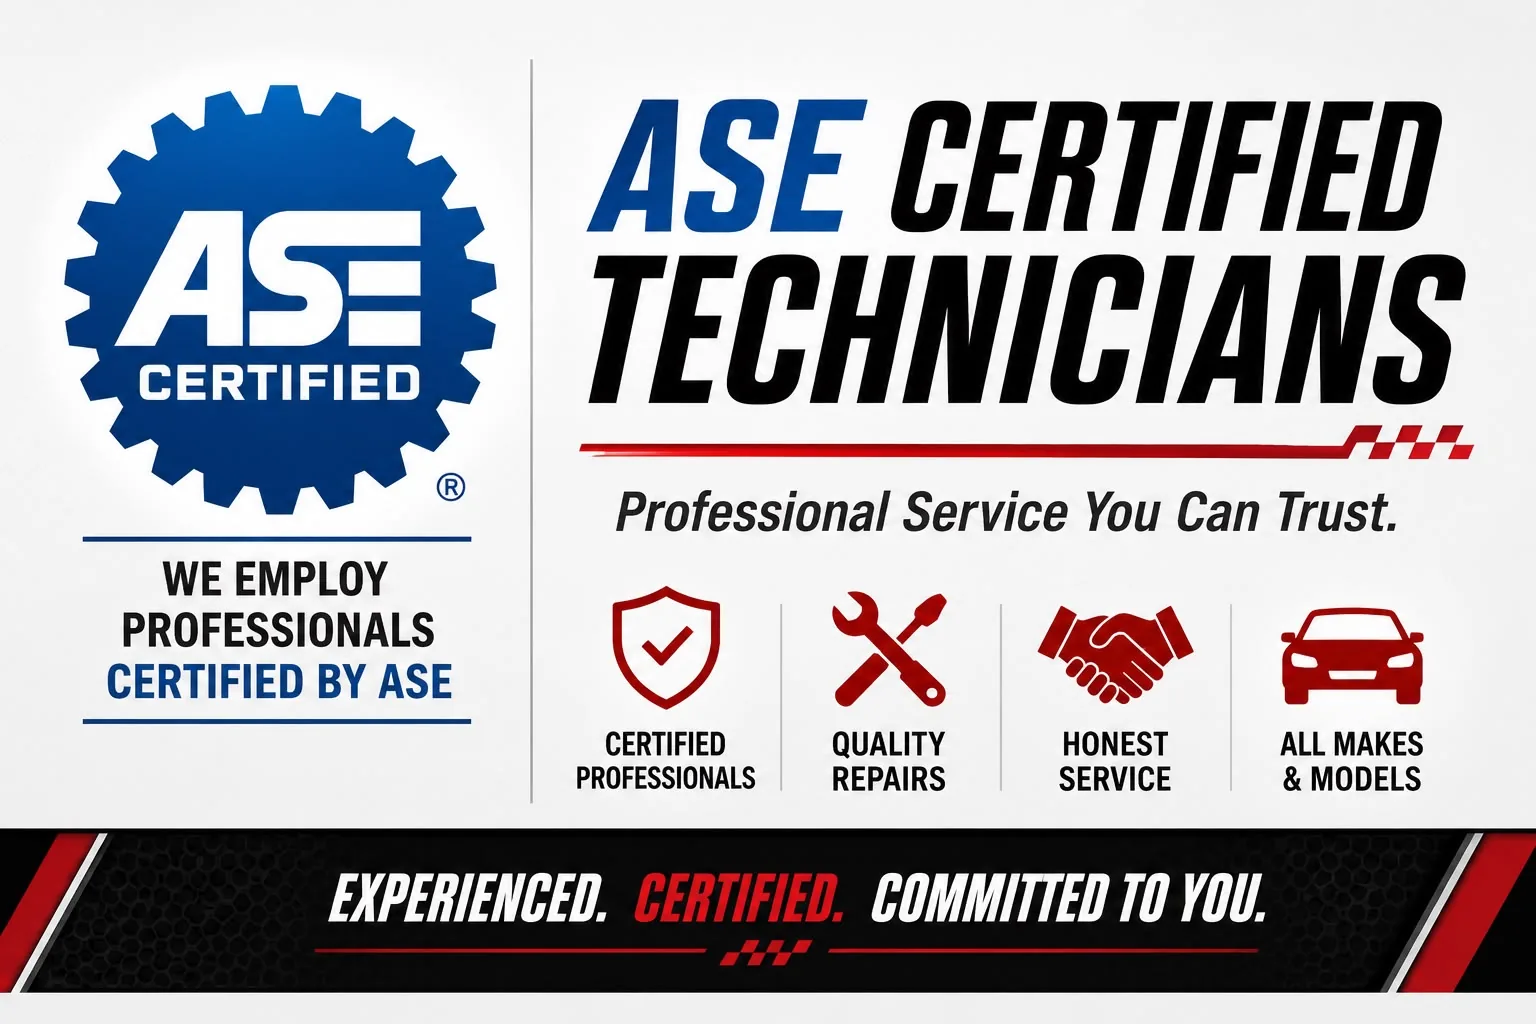
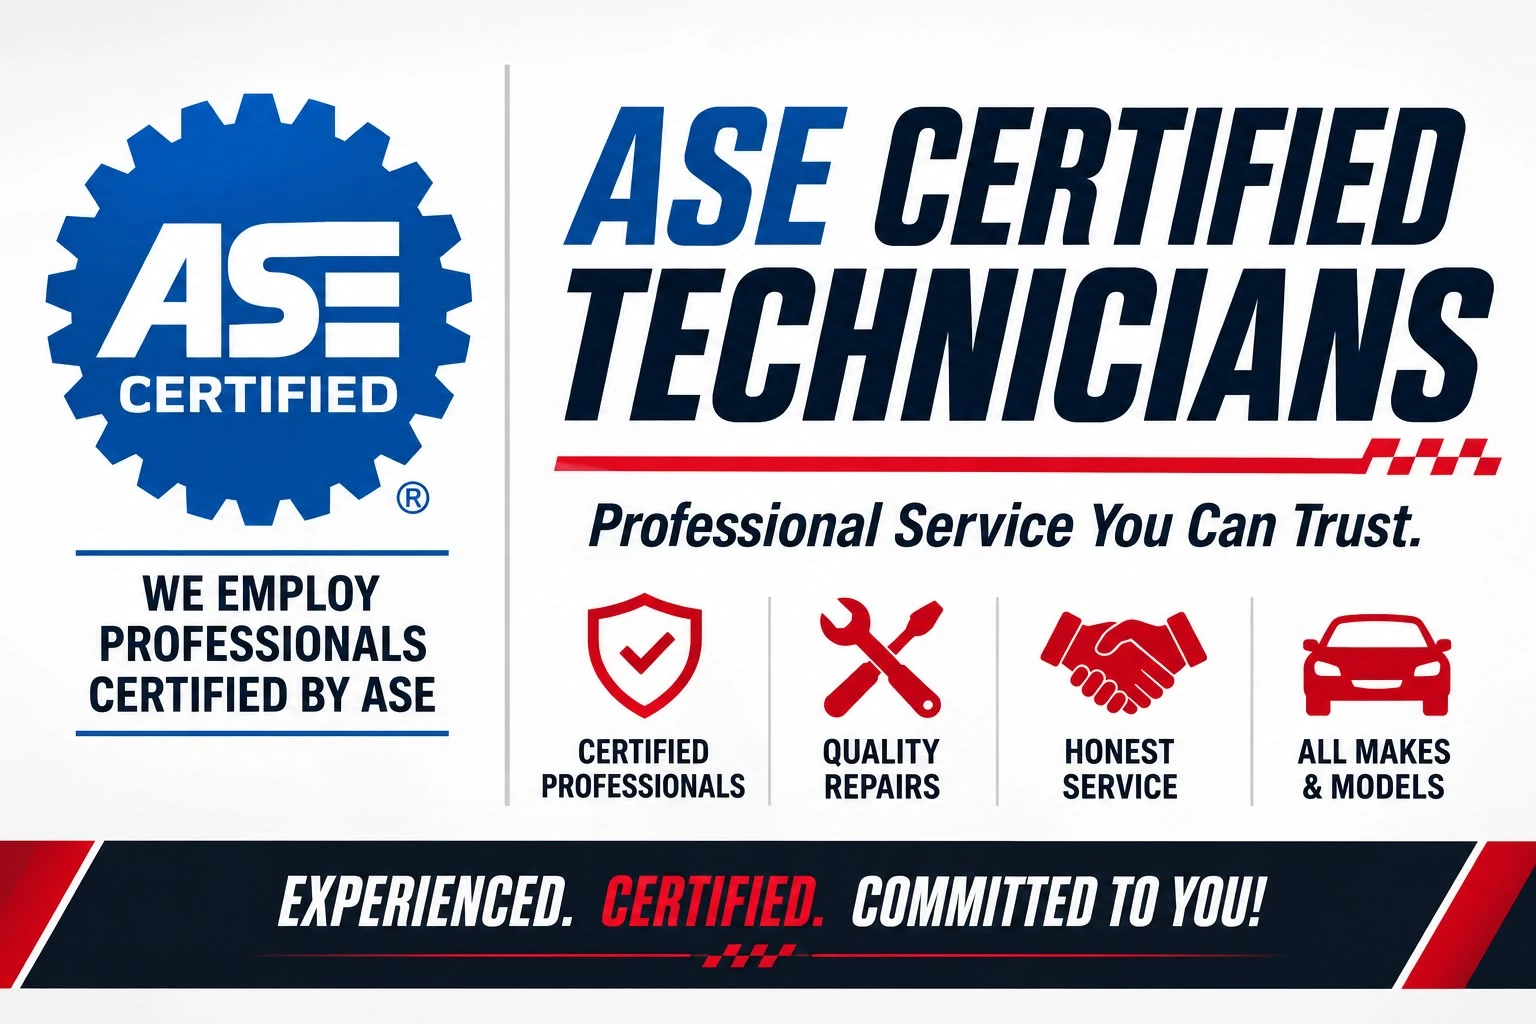
Rework hero CTA hierarchy, restyle pricing cards, update brand graphics
- Hero: Call Now is now a single full-width dominant button; Get Directions
  and Review on Google moved to smaller secondary links below it, per the
  reference mockup's single-CTA emphasis (previously three equal-weight
  buttons).
- Pricing section: restyled to match the new reference -- shield badge icon
  (reusing the real icon-512.png mark) atop each colored tier band, divider
  line, oil-drop icon beneath the price, a short description line per tier,
  and a bold "Walk-Ins Welcome - Call (phone)" bar replacing the two
  side-by-side buttons (View Full Menu kept as a smaller secondary link).
  Still real HTML, not a flattened image, consistent with the rest of the
  site's approach to "visual reference" mockups.
- Replaced best-oil-brands.webp and ase-certified-technicians.webp with the
  new supplied graphics. The new oil-brands graphic already includes Shell
  Rotella T6 natively, so removed the separate "Also available: Shell
  Rotella T6" badge added a few weeks ago (now redundant) and its
  now-unused image file, and updated alt text to list all 5 brands.

diff --git a/src/components/Pricing.tsx b/src/components/Pricing.tsx
@@ -1,16 +1,23 @@
+import Image from "next/image";
 import Link from "next/link";
 import { BUSINESS, OIL_CHANGE_PRICING } from "@/lib/constants";
+
+function OilDropIcon() {
+  return (
+    <svg className="h-6 w-6 text-slate-300" fill="currentColor" viewBox="0 0 24 24" aria-hidden="true">
+      <path d="M12 2C9 7 5 11.5 5 15a7 7 0 0014 0c0-3.5-4-8-7-13z" />
+    </svg>
+  );
+}
 
 export function Pricing() {
   return (
     <section id="pricing" className="bg-slate-50 py-20 sm:py-24">
       <div className="mx-auto max-w-7xl px-4 sm:px-6 lg:px-8">
         <div className="mx-auto max-w-2xl text-center">
-          <p className="text-sm font-bold uppercase tracking-widest text-brand-red">
-            Oil Change Pricing
-          </p>
-          <h2 className="mt-2 text-3xl font-extrabold tracking-tight text-brand-navy sm:text-4xl">
-            Straightforward Pricing
+          <h2 className="text-4xl font-black tracking-tight sm:text-5xl">
+            <span className="text-brand-navy">Oil Change </span>
+            <span className="text-brand-red">Pricing</span>
           </h2>
           <p className="mt-4 text-lg text-slate-600">
             Up to 5 quarts &middot; Premium oil filter included
@@ -23,40 +30,54 @@ export function Pricing() {
               key={tier.id}
               className="overflow-hidden rounded-2xl border border-slate-200 bg-white shadow-sm"
             >
-              <div className={`${tier.bandClass} px-5 py-3 text-center`}>
+              <div className={`${tier.bandClass} flex flex-col items-center gap-2 px-5 py-4 text-center`}>
+                <Image
+                  src="/icon-512.png"
+                  alt=""
+                  width={40}
+                  height={40}
+                  className="h-10 w-10 rounded-md"
+                  aria-hidden="true"
+                />
                 <p className="text-lg font-black uppercase tracking-wide text-white">
                   {tier.tier}
                 </p>
               </div>
               <div className="p-6 text-center">
                 <p className="text-sm font-semibold text-slate-700">{tier.label}</p>
+                <div className="mx-auto mt-4 h-px w-16 bg-slate-200" aria-hidden="true" />
                 <p className="mt-4 text-xs font-bold uppercase tracking-widest text-slate-400">
                   Starting At
                 </p>
-                <p className="mt-1 text-4xl font-black text-brand-navy">${tier.price}</p>
+                <p className="mt-1 text-4xl font-black text-brand-red">${tier.price}</p>
+                <div className="mt-2 flex justify-center">
+                  <OilDropIcon />
+                </div>
+                <p className="mt-3 text-xs leading-relaxed text-slate-500">
+                  {tier.description}
+                </p>
               </div>
             </div>
           ))}
         </div>
 
-        <p className="mt-8 text-center text-sm text-slate-500">
-          Prices are for up to 5 quarts. Taxes and shop fee extra. Special filters and
-          additional oil may cost extra.
+        <p className="mt-8 rounded-xl bg-slate-100 py-3 text-center text-sm text-slate-500">
+          Taxes and shop fee extra. Special filters or additional oil may cost extra.
         </p>
 
-        <div className="mt-6 flex flex-col items-center justify-center gap-3 sm:flex-row">
+        <div className="mt-6 flex flex-col items-center gap-3">
+          <a
+            href={BUSINESS.phoneHref}
+            className="flex w-full items-center justify-center gap-2 rounded-xl bg-brand-red px-8 py-4 text-center text-lg font-extrabold uppercase tracking-wide text-white shadow-lg transition hover:bg-brand-red-dark sm:w-auto"
+          >
+            Walk-Ins Welcome &nbsp;&bull;&nbsp; Call {BUSINESS.phone}
+          </a>
           <Link
             href="/#oil-change"
-            className="inline-flex items-center justify-center rounded-xl border-2 border-brand-navy px-6 py-3 text-base font-bold text-brand-navy transition hover:bg-brand-navy hover:text-white"
+            className="text-sm font-bold text-brand-navy underline decoration-brand-red underline-offset-4 transition hover:text-brand-red"
           >
             View Full Menu
           </Link>
-          <a
-            href={BUSINESS.phoneHref}
-            className="inline-flex items-center justify-center rounded-xl bg-brand-red px-6 py-3 text-base font-bold text-white transition hover:bg-brand-red-dark"
-          >
-            Call Now
-          </a>
         </div>
       </div>
     </section>

diff --git a/src/components/Hero.tsx b/src/components/Hero.tsx
@@ -28,39 +28,42 @@ export function Hero() {
             {BUSINESS.heroTrust}
           </p>
 
-          <div className="mt-8 flex flex-col gap-3 sm:flex-row sm:flex-wrap">
+          <div className="mt-8">
             <a
               href={BUSINESS.phoneHref}
-              className="inline-flex items-center justify-center gap-2 rounded-xl bg-brand-red px-8 py-4 text-lg font-bold text-white shadow-lg transition hover:bg-brand-red-dark"
+              className="flex w-full items-center justify-center gap-3 rounded-xl bg-brand-red px-8 py-5 text-xl font-extrabold text-white shadow-lg transition hover:bg-brand-red-dark sm:w-auto sm:text-2xl"
             >
-              <svg className="h-5 w-5" fill="none" viewBox="0 0 24 24" stroke="currentColor" strokeWidth={2}>
+              <svg className="h-6 w-6" fill="none" viewBox="0 0 24 24" stroke="currentColor" strokeWidth={2}>
                 <path strokeLinecap="round" strokeLinejoin="round" d="M3 5a2 2 0 012-2h3.28a1 1 0 01.948.684l1.498 4.493a1 1 0 01-.502 1.21l-2.257 1.13a11.042 11.042 0 005.516 5.516l1.13-2.257a1 1 0 011.21-.502l4.493 1.498a1 1 0 01.684.949V19a2 2 0 01-2 2h-1C9.716 21 3 14.284 3 6V5z" />
               </svg>
-              Call {BUSINESS.phone}
+              Call Now &nbsp;{BUSINESS.phone}
             </a>
-            <a
-              href={BUSINESS.mapsUrl}
-              target="_blank"
-              rel="noopener noreferrer"
-              className="inline-flex items-center justify-center gap-2 rounded-xl border-2 border-white/30 bg-white/10 px-8 py-4 text-lg font-bold text-white backdrop-blur-sm transition hover:bg-white/20"
-            >
-              <svg className="h-5 w-5" fill="none" viewBox="0 0 24 24" stroke="currentColor" strokeWidth={2}>
-                <path strokeLinecap="round" strokeLinejoin="round" d="M17.657 16.657L13.414 20.9a1.998 1.998 0 01-2.827 0l-4.244-4.243a8 8 0 1111.314 0z" />
-                <path strokeLinecap="round" strokeLinejoin="round" d="M15 11a3 3 0 11-6 0 3 3 0 016 0z" />
-              </svg>
-              Get Directions
-            </a>
-            <a
-              href={BUSINESS.googleReviewUrl}
-              target="_blank"
-              rel="noopener noreferrer"
-              className="inline-flex items-center justify-center gap-2 rounded-xl border-2 border-white/30 bg-white/10 px-8 py-4 text-lg font-bold text-white backdrop-blur-sm transition hover:bg-white/20"
-            >
-              <svg className="h-5 w-5" fill="currentColor" viewBox="0 0 24 24">
-                <path d="M12 17.27L18.18 21l-1.64-7.03L22 9.24l-7.19-.61L12 2 9.19 8.63 2 9.24l5.46 4.73L5.82 21z" />
-              </svg>
-              Review on Google
-            </a>
+
+            <div className="mt-3 flex flex-col gap-2 sm:flex-row sm:flex-wrap">
+              <a
+                href={BUSINESS.mapsUrl}
+                target="_blank"
+                rel="noopener noreferrer"
+                className="inline-flex items-center justify-center gap-2 rounded-lg border border-white/25 px-4 py-2 text-sm font-semibold text-white/90 transition hover:bg-white/10"
+              >
+                <svg className="h-4 w-4" fill="none" viewBox="0 0 24 24" stroke="currentColor" strokeWidth={2}>
+                  <path strokeLinecap="round" strokeLinejoin="round" d="M17.657 16.657L13.414 20.9a1.998 1.998 0 01-2.827 0l-4.244-4.243a8 8 0 1111.314 0z" />
+                  <path strokeLinecap="round" strokeLinejoin="round" d="M15 11a3 3 0 11-6 0 3 3 0 016 0z" />
+                </svg>
+                Get Directions
+              </a>
+              <a
+                href={BUSINESS.googleReviewUrl}
+                target="_blank"
+                rel="noopener noreferrer"
+                className="inline-flex items-center justify-center gap-2 rounded-lg border border-white/25 px-4 py-2 text-sm font-semibold text-white/90 transition hover:bg-white/10"
+              >
+                <svg className="h-4 w-4" fill="currentColor" viewBox="0 0 24 24">
+                  <path d="M12 17.27L18.18 21l-1.64-7.03L22 9.24l-7.19-.61L12 2 9.19 8.63 2 9.24l5.46 4.73L5.82 21z" />
+                </svg>
+                Review on Google
+              </a>
+            </div>
           </div>
 
           <div className="mt-10 grid grid-cols-3 gap-4 border-t border-white/10 pt-8">

diff --git a/src/app/page.tsx b/src/app/page.tsx
@@ -40,29 +40,15 @@ export default function Home() {
               sizes="(max-width: 640px) 100vw, 50vw"
             />
           </div>
-          <div>
-            <div className="overflow-hidden rounded-2xl shadow-xl">
-              <Image
-                src="/best-oil-brands.webp"
-                alt="Finish Line only uses premium oil brands: GM Dexos1 Approved, Ford Motorcraft, Lucas Oil Products, and Mobil 1 — for better protection, peak performance, and longer engine life"
-                width={1536}
-                height={1024}
-                className="h-auto w-full"
-                sizes="(max-width: 640px) 100vw, 50vw"
-              />
-            </div>
-            <div className="mt-3 flex items-center gap-4 rounded-2xl border border-slate-200 bg-white p-4 shadow-sm">
-              <Image
-                src="/shell-rotella-t6.webp"
-                alt="Shell Rotella T6 premium motor oil"
-                width={906}
-                height={467}
-                className="h-10 w-auto shrink-0"
-              />
-              <p className="text-sm font-semibold text-slate-700">
-                Also available: Shell Rotella T6
-              </p>
-            </div>
+          <div className="overflow-hidden rounded-2xl shadow-xl">
+            <Image
+              src="/best-oil-brands.webp"
+              alt="Finish Line only uses premium oil brands: GM Dexos1 Approved, Ford Motorcraft, Lucas Oil Products, Mobil 1, and Shell Rotella T6 — for better protection, peak performance, and longer engine life"
+              width={1536}
+              height={1024}
+              className="h-auto w-full"
+              sizes="(max-width: 640px) 100vw, 50vw"
+            />
           </div>
         </div>
       </section>

diff --git a/src/app/oil-change-livonia-mi/page.tsx b/src/app/oil-change-livonia-mi/page.tsx
@@ -165,24 +165,12 @@ export default function OilChangeLivoniaPage() {
           <div className="overflow-hidden rounded-2xl shadow-xl">
             <Image
               src="/best-oil-brands.webp"
-              alt="Finish Line only uses premium oil brands: GM Dexos1 Approved, Ford Motorcraft, Lucas Oil Products, and Mobil 1 — for better protection, peak performance, and longer engine life"
+              alt="Finish Line only uses premium oil brands: GM Dexos1 Approved, Ford Motorcraft, Lucas Oil Products, Mobil 1, and Shell Rotella T6 — for better protection, peak performance, and longer engine life"
               width={1536}
               height={1024}
               className="h-auto w-full"
               sizes="(max-width: 1024px) 100vw, 1024px"
             />
-          </div>
-          <div className="mt-3 flex items-center justify-center gap-4 rounded-2xl border border-slate-200 bg-white p-4 shadow-sm">
-            <Image
-              src="/shell-rotella-t6.webp"
-              alt="Shell Rotella T6 premium motor oil"
-              width={906}
-              height={467}
-              className="h-10 w-auto shrink-0"
-            />
-            <p className="text-sm font-semibold text-slate-700">
-              Also available: Shell Rotella T6
-            </p>
           </div>
         </div>
       </section>

diff --git a/src/lib/constants.ts b/src/lib/constants.ts
@@ -59,6 +59,7 @@ export const OIL_CHANGE_PRICING = [
     label: "Conventional Oil Change",
     price: "29.95",
     bandClass: "bg-brand-red",
+    description: "Conventional motor oil for vehicles that specify it.",
   },
   {
     id: "better",
@@ -66,6 +67,7 @@ export const OIL_CHANGE_PRICING = [
     label: "Synthetic Blend / High Mileage",
     price: "44.95",
     bandClass: "bg-blue-600",
+    description: "Synthetic blend for compatible high-mileage vehicles.",
   },
   {
     id: "best",
@@ -73,6 +75,7 @@ export const OIL_CHANGE_PRICING = [
     label: "Full Synthetic (Dexos®)",
     price: "59.95",
     bandClass: "bg-amber-500",
+    description: "Dexos®-spec full synthetic for vehicles that require it.",
   },
   {
     id: "premium",
@@ -80,6 +83,7 @@ export const OIL_CHANGE_PRICING = [
     label: "Mobil 1 Full Synthetic",
     price: "79.95",
     bandClass: "bg-slate-900",
+    description: "Mobil 1 full synthetic with advanced engine protection.",
   },
 ] as const;
 
